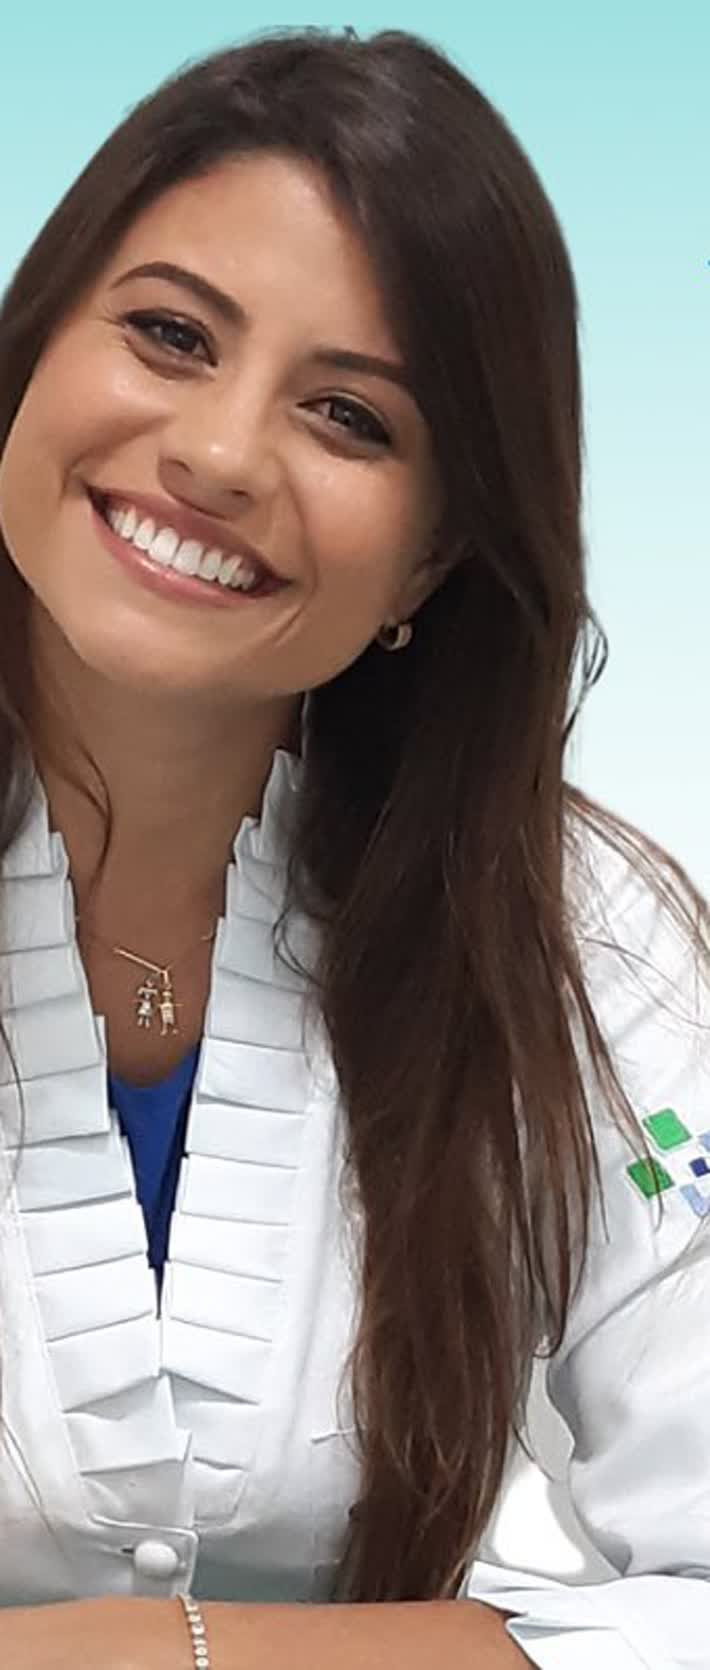
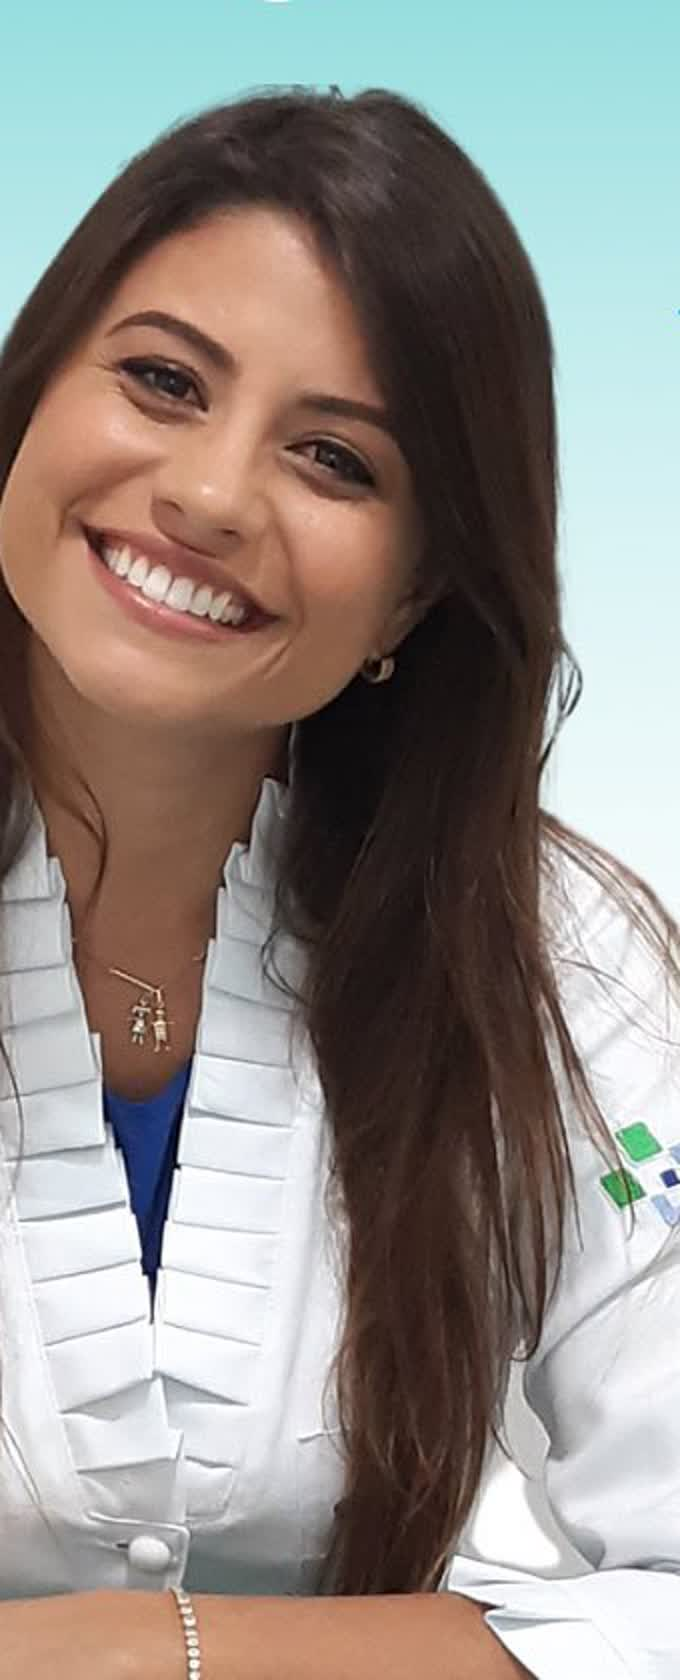
prévia: dsm/leila-carneiro

diff --git a/dsm/leila-carneiro/index.html b/dsm/leila-carneiro/index.html
@@ -15,7 +15,7 @@
 <link rel="preconnect" href="https://fonts.gstatic.com" crossorigin>
 <link href="https://fonts.googleapis.com/css2?family=Outfit:wght@300;400;500;600;700&family=Inter:wght@400;500;600&family=Caveat:wght@600&display=swap" rel="stylesheet">
 <link href="https://fonts.googleapis.com/css2?family=Fraunces:ital,opsz,wght@0,9..144,600;1,9..144,500&display=swap" rel="stylesheet">
-<link rel="stylesheet" href="site.css?v=95cf84306e">
+<link rel="stylesheet" href="site.css?v=eb39b738c5">
 <script>document.documentElement.classList.replace('js-pending','js')</script>
 </head>
 <body class="home">
@@ -44,7 +44,7 @@
     </div>
     <div class="hfoto">
       
-      <figure class="rv"><img src="retrato.jpg" alt="Dra. Leila Carneiro, pediatra, em foto publicada por ela no Instagram" width="710" height="1670" style="height:auto" fetchpriority="high"></figure>
+      <figure class="rv"><img src="retrato.jpg" alt="Dra. Leila Carneiro, pediatra, em foto publicada por ela no Instagram" width="680" height="1680" style="height:auto" fetchpriority="high"></figure>
       <div class="placar rv d2" aria-label="Credenciais">
         <div class="ptop"><span class="rec"></span>Credenciais<span class="crono">Paralela · Salvador</span></div>
         <div class="prow"><span class="ln"><svg viewBox="0 0 24 24" fill="none" stroke="currentColor" stroke-width="2.1" stroke-linecap="round"><path d="M12 3l7 3v5c0 5-3 8-7 10-4-2-7-5-7-10V6z"/></svg></span><b>RQE 18.344</b><span>Pediatria</span></div><div class="prow"><span class="ln"><svg viewBox="0 0 24 24" fill="none" stroke="currentColor" stroke-width="2.1" stroke-linecap="round"><path d="M4 19V9m5 10V6m5 13v-7m5 7V4"/></svg></span><b>CRM-BA 27.409</b><span>Registro no Conselho da Bahia</span></div><div class="prow"><span class="ln"><svg viewBox="0 0 24 24" fill="none" stroke="currentColor" stroke-width="2.1" stroke-linecap="round"><path d="M12 20c4-3 7-6 7-10a4 4 0 0 0-7-2 4 4 0 0 0-7 2c0 4 3 7 7 10Z"/></svg></span><b>Ser Criança</b><span>Sócia fundadora da clínica</span></div><div class="prow"><span class="ln"><svg viewBox="0 0 24 24" fill="none" stroke="currentColor" stroke-width="2.1" stroke-linecap="round"><circle cx="12" cy="8" r="3.4"/><path d="M5 20c1-4 4-6 7-6s6 2 7 6"/></svg></span><b>HGRS</b><span>Preceptora da residência de pediatria</span></div>

diff --git a/dsm/leila-carneiro/site.css b/dsm/leila-carneiro/site.css
@@ -547,14 +547,18 @@ h2 em{font-weight:300}
 .hero .hbg{position:absolute;inset:-30px;z-index:0;background-size:cover;background-position:50% 22%;
   filter:blur(64px) saturate(1.15) brightness(1.32);opacity:.55;transform:scale(1.1)}
 @media (min-width:901px){
-  /* retrato fechado: no desktop ele vira um retrato emoldurado, não um close gigante */
-  .hero .hfoto{width:min(100%,400px);height:min(74vh,660px);justify-self:end;margin-right:clamp(1rem,3vw,3rem);background:#E4F8F7}
+  /* retrato fechado: no desktop ele vira um retrato emoldurado e o cartão de
+     credenciais fica embaixo da foto, para não cobrir o rosto */
+  .hero .hfoto{width:min(100%,430px);height:auto;justify-self:end;margin-right:clamp(1rem,3vw,3rem);
+    background:transparent;box-shadow:none}
+  .hero .hfoto::before{display:none}
+  .hero .hfoto figure{height:520px;border-radius:24px;overflow:hidden;box-shadow:0 40px 90px -50px rgba(11,95,102,.55)}
   .hero .hfoto img{object-fit:cover;object-position:50% 0%}
-  .hero .placar{display:block!important;padding:1rem 1.1rem .75rem}
+  .hero .placar{position:relative;left:auto;right:auto;bottom:auto;margin:-1.2rem .7rem 0;
+    display:block;padding:1rem 1.1rem .75rem}
   .hero .placar .prow{grid-template-columns:24px 1fr!important;padding:.5rem 0 .1rem}
   .hero .placar .prow span:last-child{grid-column:2;font-size:.74rem}
 }
-@media (max-width:900px){.hero .hbg{display:none}}
 @media (max-width:760px){.hero .hfoto{margin:0;border-radius:0}}
 
 /* ================= variante impacto ================= */

diff --git a/dsm/leila-carneiro/a-consulta/index.html b/dsm/leila-carneiro/a-consulta/index.html
@@ -15,7 +15,7 @@
 <link rel="preconnect" href="https://fonts.gstatic.com" crossorigin>
 <link href="https://fonts.googleapis.com/css2?family=Outfit:wght@300;400;500;600;700&family=Inter:wght@400;500;600&family=Caveat:wght@600&display=swap" rel="stylesheet">
 <link href="https://fonts.googleapis.com/css2?family=Fraunces:ital,opsz,wght@0,9..144,600;1,9..144,500&display=swap" rel="stylesheet">
-<link rel="stylesheet" href="../site.css?v=95cf84306e">
+<link rel="stylesheet" href="../site.css?v=eb39b738c5">
 <script>document.documentElement.classList.replace('js-pending','js')</script>
 </head>
 <body class="inner">

diff --git a/dsm/leila-carneiro/alimentacao/index.html b/dsm/leila-carneiro/alimentacao/index.html
@@ -15,7 +15,7 @@
 <link rel="preconnect" href="https://fonts.gstatic.com" crossorigin>
 <link href="https://fonts.googleapis.com/css2?family=Outfit:wght@300;400;500;600;700&family=Inter:wght@400;500;600&family=Caveat:wght@600&display=swap" rel="stylesheet">
 <link href="https://fonts.googleapis.com/css2?family=Fraunces:ital,opsz,wght@0,9..144,600;1,9..144,500&display=swap" rel="stylesheet">
-<link rel="stylesheet" href="../site.css?v=95cf84306e">
+<link rel="stylesheet" href="../site.css?v=eb39b738c5">
 <script>document.documentElement.classList.replace('js-pending','js')</script>
 </head>
 <body class="inner">

diff --git a/dsm/leila-carneiro/onde-atendo/index.html b/dsm/leila-carneiro/onde-atendo/index.html
@@ -15,7 +15,7 @@
 <link rel="preconnect" href="https://fonts.gstatic.com" crossorigin>
 <link href="https://fonts.googleapis.com/css2?family=Outfit:wght@300;400;500;600;700&family=Inter:wght@400;500;600&family=Caveat:wght@600&display=swap" rel="stylesheet">
 <link href="https://fonts.googleapis.com/css2?family=Fraunces:ital,opsz,wght@0,9..144,600;1,9..144,500&display=swap" rel="stylesheet">
-<link rel="stylesheet" href="../site.css?v=95cf84306e">
+<link rel="stylesheet" href="../site.css?v=eb39b738c5">
 <script>document.documentElement.classList.replace('js-pending','js')</script>
 </head>
 <body class="inner">

diff --git a/dsm/leila-carneiro/orientacao/index.html b/dsm/leila-carneiro/orientacao/index.html
@@ -15,7 +15,7 @@
 <link rel="preconnect" href="https://fonts.gstatic.com" crossorigin>
 <link href="https://fonts.googleapis.com/css2?family=Outfit:wght@300;400;500;600;700&family=Inter:wght@400;500;600&family=Caveat:wght@600&display=swap" rel="stylesheet">
 <link href="https://fonts.googleapis.com/css2?family=Fraunces:ital,opsz,wght@0,9..144,600;1,9..144,500&display=swap" rel="stylesheet">
-<link rel="stylesheet" href="../site.css?v=95cf84306e">
+<link rel="stylesheet" href="../site.css?v=eb39b738c5">
 <script>document.documentElement.classList.replace('js-pending','js')</script>
 </head>
 <body class="inner">

diff --git a/dsm/leila-carneiro/puericultura/index.html b/dsm/leila-carneiro/puericultura/index.html
@@ -15,7 +15,7 @@
 <link rel="preconnect" href="https://fonts.gstatic.com" crossorigin>
 <link href="https://fonts.googleapis.com/css2?family=Outfit:wght@300;400;500;600;700&family=Inter:wght@400;500;600&family=Caveat:wght@600&display=swap" rel="stylesheet">
 <link href="https://fonts.googleapis.com/css2?family=Fraunces:ital,opsz,wght@0,9..144,600;1,9..144,500&display=swap" rel="stylesheet">
-<link rel="stylesheet" href="../site.css?v=95cf84306e">
+<link rel="stylesheet" href="../site.css?v=eb39b738c5">
 <script>document.documentElement.classList.replace('js-pending','js')</script>
 </head>
 <body class="inner">

diff --git a/dsm/leila-carneiro/sobre/index.html b/dsm/leila-carneiro/sobre/index.html
@@ -15,7 +15,7 @@
 <link rel="preconnect" href="https://fonts.gstatic.com" crossorigin>
 <link href="https://fonts.googleapis.com/css2?family=Outfit:wght@300;400;500;600;700&family=Inter:wght@400;500;600&family=Caveat:wght@600&display=swap" rel="stylesheet">
 <link href="https://fonts.googleapis.com/css2?family=Fraunces:ital,opsz,wght@0,9..144,600;1,9..144,500&display=swap" rel="stylesheet">
-<link rel="stylesheet" href="../site.css?v=95cf84306e">
+<link rel="stylesheet" href="../site.css?v=eb39b738c5">
 <script>document.documentElement.classList.replace('js-pending','js')</script>
 </head>
 <body class="inner">

diff --git a/dsm/leila-carneiro/revisao-design.md b/dsm/leila-carneiro/revisao-design.md
@@ -21,3 +21,10 @@ Correções aplicadas:
 
 Resultado: nome, especialidade, CRM/RQE e botão na primeira tela em 360x740, 390x844 e 430x900;
 sem rolagem lateral; páginas internas com a barra fixa e botão legível; desktop conferido.
+
+## Ajuste 13/11 (pedido do João: "ficou feio aq né?")
+
+O cartão de credenciais cobria a boca dela no desktop. Refiz o herói: o retrato virou uma
+moldura de 430x520 e o cartão passou a ficar **embaixo** da foto, só encostando na borda
+(antes ficava por cima do rosto). Também recortei o retrato um pouco mais acima, para a coroa
+da cabeça aparecer inteira.
